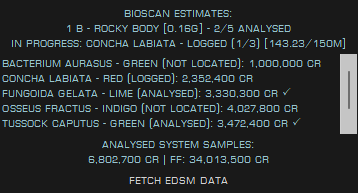
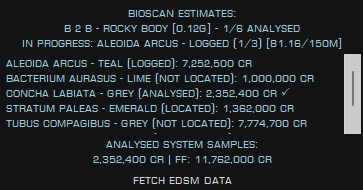
Screenshot updates

diff --git a/README.md b/README.md
@@ -1,6 +1,6 @@
 # BioScan plugin for [EDMC]
 
-<img src="BioScan-DSS.png" align="left" style="margin-right: 10px">
+<img src="BioScan-FSS.png" align="left" style="margin-right: 10px">
 
 BioScan is a utility for explorers and exobiologists that attempts to determine the possible species (and therefore
 value) of biological signals on bodies. It uses data such as the atmosphere, gravity, volcanism, surface temperature,
@@ -10,7 +10,7 @@ Once done, it will summarize the possible value ranges for all qualifying genera
 extremely accurate and will often narrow down a specific species per genera and only a handful of extra qualifying
 genera (if any). Sometimes it will tell you exactly what's on a planet before even mapping it.
 
-<img src="BioScan-SAA-Prog.png" align="right" style="margin-left: 10px">
+<img src="BioScan-SAA-Prog-2.png" align="right" style="margin-left: 10px">
 
 After you've mapped a planet with biological signals, it will then pare down the list to the detected genera or species.
 And finally, once you've started to scan each species it will display the final type and value of the sample as well as
